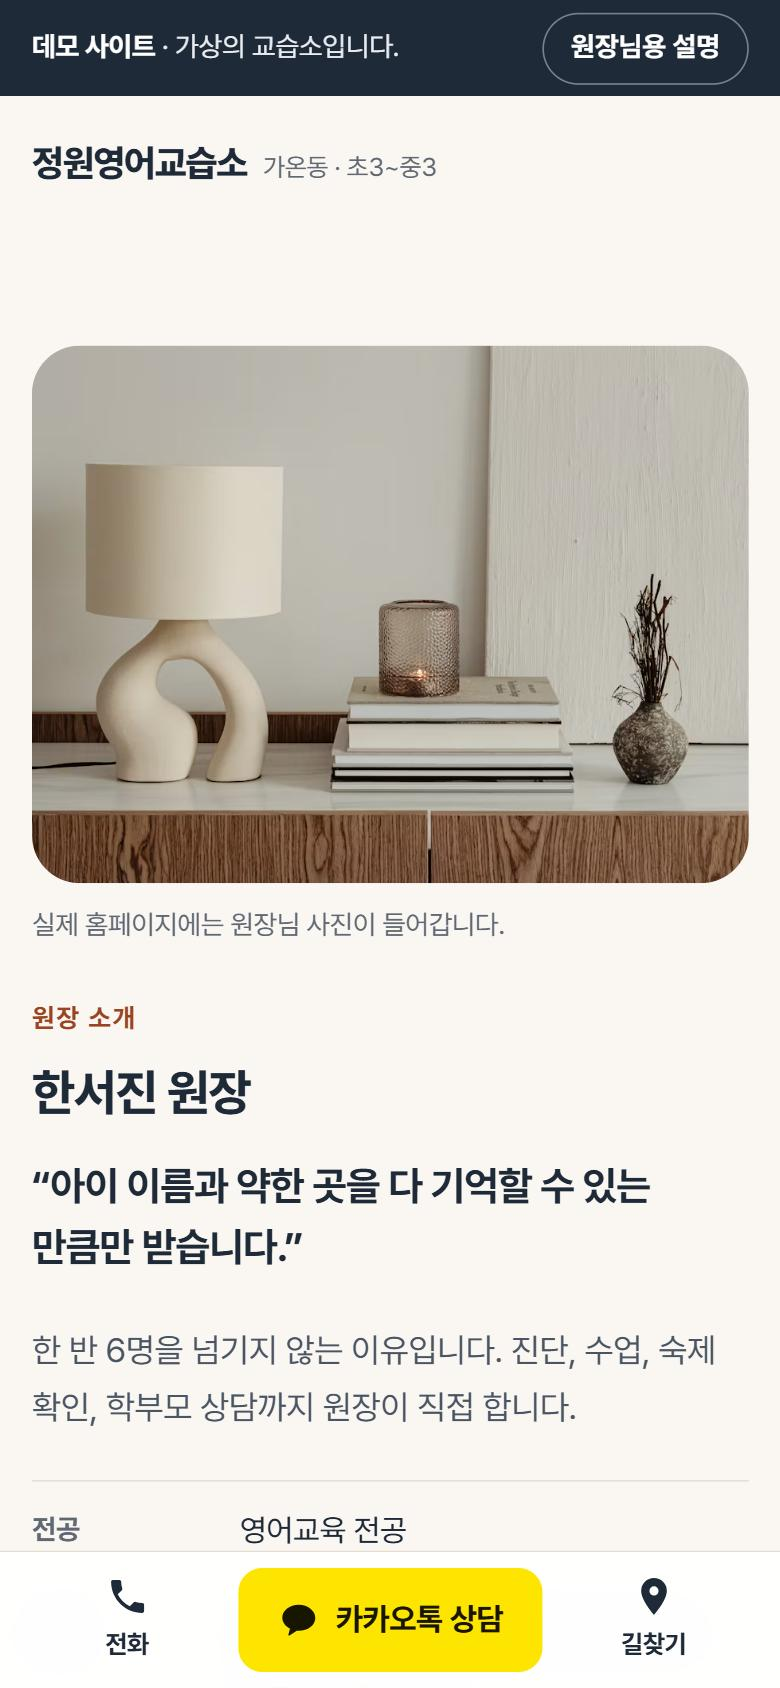
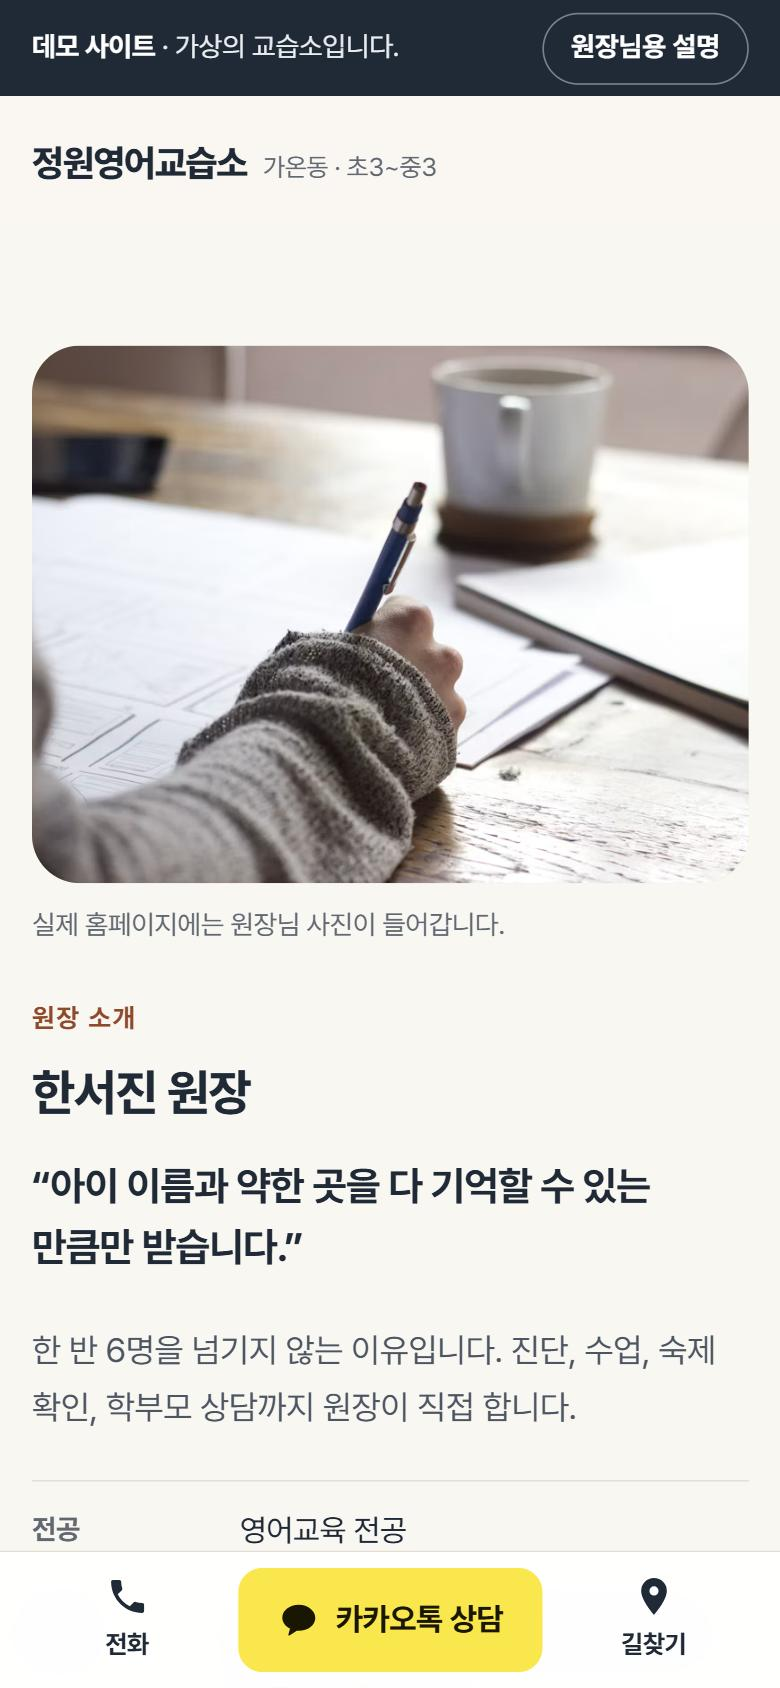
화면 갱신(새 무료 사진) · README에 미리보기 추가 · 재점검 날짜
Claude-Session: https://claude.ai/code/session_01XySkmyWqQhuTdWRt7pSBQn

Changed region(s): [[0.0308, 0.1848, 0.9846, 0.5237], [0.3077, 0.9242, 0.7077, 1.0]]

diff --git a/README.md b/README.md
@@ -6,6 +6,13 @@
 - 데모 보기: https://leeyou34.github.io/kyoseupso-demo/
 - '원장님용 설명'을 켠 채로 보기: https://leeyou34.github.io/kyoseupso-demo/#owner — 실제 제작 때 원장님 자료(사진·이력·교습비 등)로 바뀌는 자리를 점선으로 보여 줍니다.
 
+<p>
+<img src="docs/screenshots/m1_hero.jpg" width="230" alt="모바일 첫 화면">
+<img src="docs/screenshots/m8_space.jpg" width="230" alt="모바일 교실 사진">
+<img src="docs/screenshots/m7_owner.jpg" width="230" alt="원장님용 설명을 켠 모바일 화면">
+</p>
+<img src="docs/screenshots/d1_hero.jpg" width="720" alt="데스크톱 첫 화면">
+
 ## 담은 것
 - 모바일 우선 한 장 구성: 첫 화면(지역·학년·과목) → 가르치는 방식 → 원장 소개 → 학년별 수업 → 수업 한 주와 월간 리포트 → 교실 → 교습비·모집 현황 → 상담부터 첫 수업까지 → 자주 묻는 질문 → 오시는 길 → 상담 신청
 - 연락: 카카오톡 상담 · 전화 · 길찾기(모바일 화면 아래 고정)
@@ -14,7 +21,7 @@
 - 지어낸 후기 없음 — 네이버 플레이스 방문자 리뷰로 연결
 - 검색 노출 막음(noindex) — 시연용이므로
 
-## 점검 (2026-11-09)
+## 점검 (2026-11-10)
 - 접근성 자동 점검: axe-core 4.10.2, WCAG 2.0·2.1·2.2 A/AA 규칙 — 위반 0건(모바일 390px · 데스크톱 1440px)
 - 레이아웃 흔들림(CLS) 0 · 가로 넘침 없음(390 · 820 · 1440px)
 - 외부 스크립트 0개(글꼴 CSS와 사진만 외부에서 불러옴)
